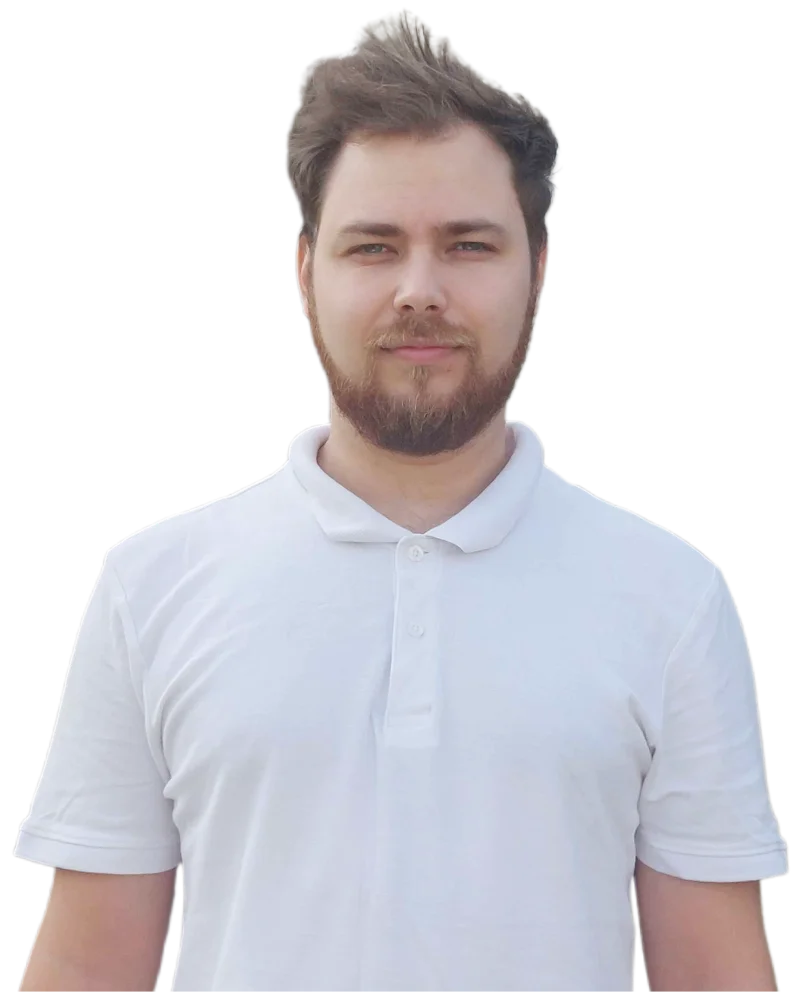
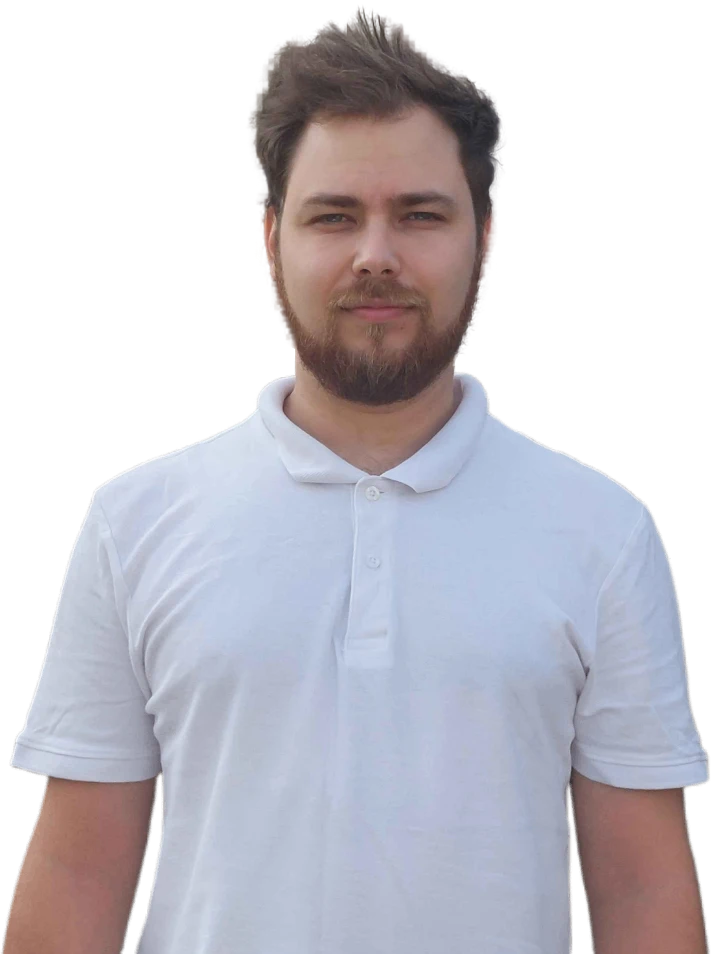
Updating the Section About and update the photo cutting

diff --git a/themes/dm-theme-01/css/style.min.css b/themes/dm-theme-01/css/style.min.css
@@ -16083,7 +16083,11 @@ body.theme-dark .dm-resume-data > container > ul > li:last-of-type > div > p {
           box-sizing: border-box;
   border-radius: var(--dm-border-radius-secondary);
   padding: var(--dm-spacing-secondary) var(--dm-spacing-secondary) 0px var(--dm-spacing-secondary);
-  background-image: -webkit-gradient(linear, left top, left bottom, color-stop(20%, rgba(var(--dm-color-white-rgb), 0.5)), color-stop(60%, rgba(var(--dm-color-primary-rgb), 1)));
+  background-image: -webkit-gradient(linear, left top, left bottom, color-stop(20%, rgba(var(--dm-color-primary-rgb), 0)), color-stop(50%, rgba(var(--dm-color-primary-rgb), 0.8)), color-stop(140%, rgba(var(--dm-color-secondary-rgb), 1)));
+}
+.dm-about[data-layout=compress] > container > div:first-of-type > svg {
+  width: 320px;
+  max-width: 80%;
 }
 .dm-about[data-layout=compress] > container > div:first-of-type:after {
   border-radius: 0 0 var(--dm-border-radius-secondary) var(--dm-border-radius-secondary);
@@ -16124,7 +16128,7 @@ body.theme-dark .dm-resume-data > container > ul > li:last-of-type > div > p {
     max-width: 300px;
   }
   .dm-about[data-layout=compress] > container > div:first-of-type > svg {
-    width: 300px;
+    width: 200px;
   }
   .dm-about[data-layout=compress] > container > div:first-of-type > span {
     height: 300px;
@@ -16141,7 +16145,7 @@ body.theme-dark .dm-resume-data > container > ul > li:last-of-type > div > p {
     height: 200px;
   }
   .dm-about[data-layout=compress] > container > div:first-of-type > svg {
-    width: 50%;
+    width: 40%;
     height: auto;
   }
   .dm-about[data-layout=compress] > container > div:first-of-type:after {

diff --git a/themes/dm-theme-01/scss/templates-design/templates-design-parts/section-about.scss b/themes/dm-theme-01/scss/templates-design/templates-design-parts/section-about.scss
@@ -207,9 +207,14 @@
             padding: var(  --dm-spacing-secondary ) var(  --dm-spacing-secondary ) 0px var(  --dm-spacing-secondary );
             background-image: -webkit-gradient(
                 linear, left top, left bottom,
-                color-stop(20%, rgba( var( --dm-color-white-rgb ), 0.5 )),
-                color-stop(60%, rgba( var( --dm-color-primary-rgb ), 1 ))
+                color-stop(20%, rgba( var( --dm-color-primary-rgb ), 0 )),
+                color-stop(50%, rgba( var( --dm-color-primary-rgb ), 0.8 )),
+                color-stop(140%, rgba( var( --dm-color-secondary-rgb ), 1 ))
             );
+          }
+          > svg {
+            width: 320px;
+            max-width: 80%;
           }
           &:after {
             @include border-radius( 0 0  var( --dm-border-radius-secondary ) var( --dm-border-radius-secondary ));
@@ -250,7 +255,7 @@
               max-width: 300px;
             }
             > svg {
-              width: 300px;
+              width: 200px;
             }
             > span {
               height: 300px;
@@ -273,7 +278,7 @@
               height: 200px;
             }
             > svg {
-              width: 50%;
+              width: 40%;
               height: auto;
             }
             &:after {
